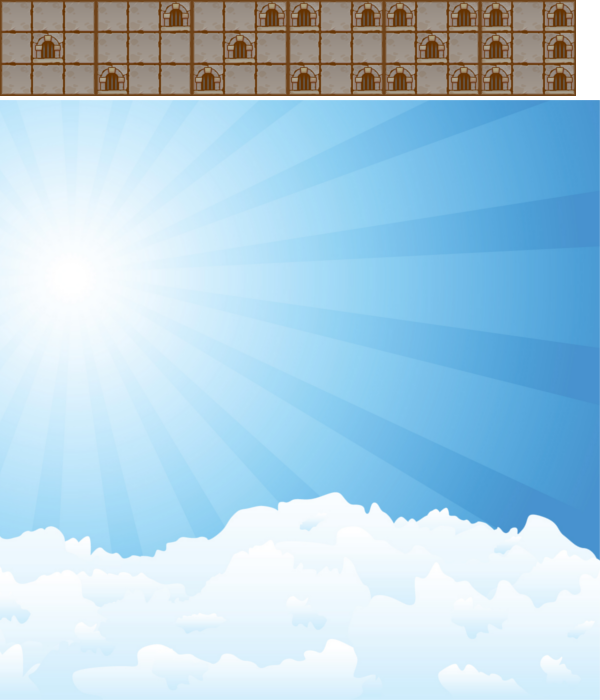
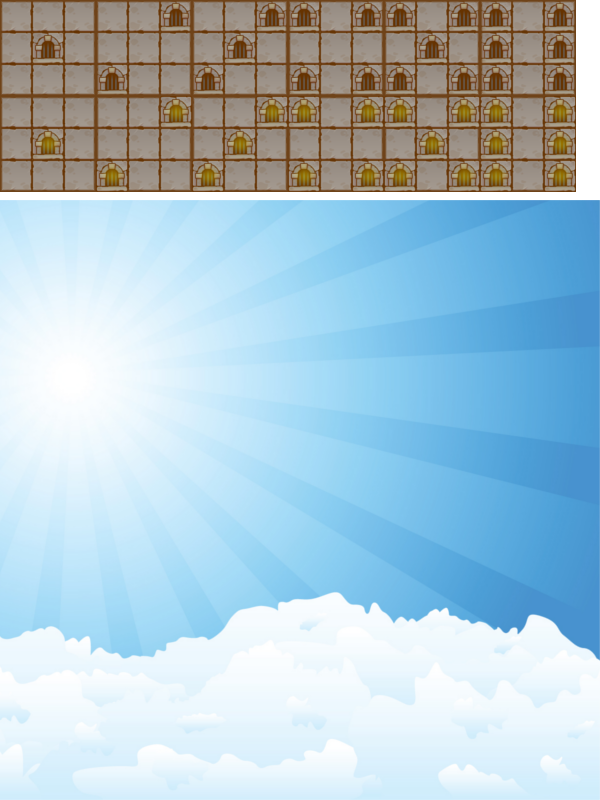
Added animations and compatibility indicator

diff --git a/Domino.js b/Domino.js
@@ -6,13 +6,15 @@ var Domino = function (context, image, top, bottom) {
   this.bottom = bottom;
   this.width = 96;
   this.height = 192;
+  this.x = 0;
+  this.y = 0;
 };
 
-Domino.prototype.draw = function () {
+Domino.prototype.draw = function (type) {
   'use strict';
   this.context.drawImage(this.image,
                          this.top * this.width,
-                         0,
+                         this.height * type / 2,
                          this.width,
                          this.height / 2,
                          this.x,
@@ -21,13 +23,31 @@ Domino.prototype.draw = function () {
                          this.height / 2);
   this.context.drawImage(this.image,
                          this.bottom * this.width,
-                         0,
+                         this.height * type / 2,
                          this.width,
                          this.height / 2,
                          this.x,
                          this.y + this.height / 2,
                          this.width,
                          this.height / 2);
+};
+
+Domino.prototype.update = function () {
+  'use strict';
+  if (this.targetX > this.x + 4) {
+    this.x += Math.floor((this.targetX - this.x) / 4);
+  } else if (this.targetX < this.x - 4) {
+    this.x -= Math.floor((this.x - this.targetX) / 4);
+  } else {
+    this.x = this.targetX;
+  }
+  if (this.targetY > this.y + 4) {
+    this.y += Math.floor((this.targetY - this.y) / 4);
+  } else if (this.targetY < this.y - 4) {
+    this.y -= Math.floor((this.x - this.targetY) / 4);
+  } else {
+    this.y = this.targetY;
+  }
 };
 
 Domino.prototype.handle = function (e) {
@@ -39,11 +59,10 @@ Domino.prototype.handle = function (e) {
   }
 };
 
-
 Domino.prototype.setTo = function (id, handler, canvas) {
   'use strict';
-  this.x = (this.width + 4) * id + 2;
-  this.y = 2;
+  this.targetX = (this.width + 4) * id + 2;
+  this.targetY = 2;
   this.id = id;
   this.handler = handler;
   canvas.addEventListener('click', this.handle.bind(this));

diff --git a/DominoTower.js b/DominoTower.js
@@ -20,19 +20,38 @@ var DominoTower = function (canvas, image) {
   }
   this.builtin = [];
   this.score = 0;
-  window.setInterval(this.draw.bind(this), 200);
+  window.setInterval(this.update.bind(this), 20);
+  window.setInterval(this.draw.bind(this), 20);
+};
+
+DominoTower.prototype.update = function () {
+  'use strict';
+  var id;
+  for (id = 0; id < this.available.length; id += 1) {
+    this.available[id].update();
+  }
+  for (id = 0; id < 2; id += 1) {
+    if (this.builtin[id]) {
+      this.builtin[id].update();
+    }
+  }
 };
 
 DominoTower.prototype.draw = function () {
   'use strict';
   var id;
-  this.context.drawImage(this.image, 0, 100, 600, 600, 0, 0, 600, 600);
+  this.context.drawImage(this.image, 0, 200, 600, 600, 0, 0, 600, 600);
   for (id = 0; id < this.available.length; id += 1) {
-    this.available[id].draw();
+    if (this.builtin[0] &&
+        this.available[id].bottom === this.builtin[0].top) {
+      this.available[id].draw(1);
+    } else {
+      this.available[id].draw(0);
+    }
   }
   for (id = 0; id < 2; id += 1) {
     if (this.builtin[id]) {
-      this.builtin[id].draw();
+      this.builtin[id].draw(1);
     }
   }
   this.context.fillText(this.score, 10, 600);
@@ -50,12 +69,12 @@ DominoTower.prototype.build = function (id) {
     return false;
   }
   this.builtin.unshift(this.available[id]);
-  this.builtin[0].x = (this.available[id].width + 4) * 2.5 + 2;
-  this.builtin[0].y = this.available[id].height * 2;
+  this.builtin[0].targetX = (this.available[id].width + 4) * 2.5 + 2;
+  this.builtin[0].targetY = this.available[id].height * 2;
   this.available[id] = this.addRandomFrom(this.hidden);
   this.available[id].setTo(id, this.build.bind(this), this.canvas);
   if (this.builtin[1]) {
-    this.builtin[1].y = this.builtin[1].height * 3;
+    this.builtin[1].targetY = this.builtin[1].height * 3;
   }
   this.score += this.builtin.length;
 };
